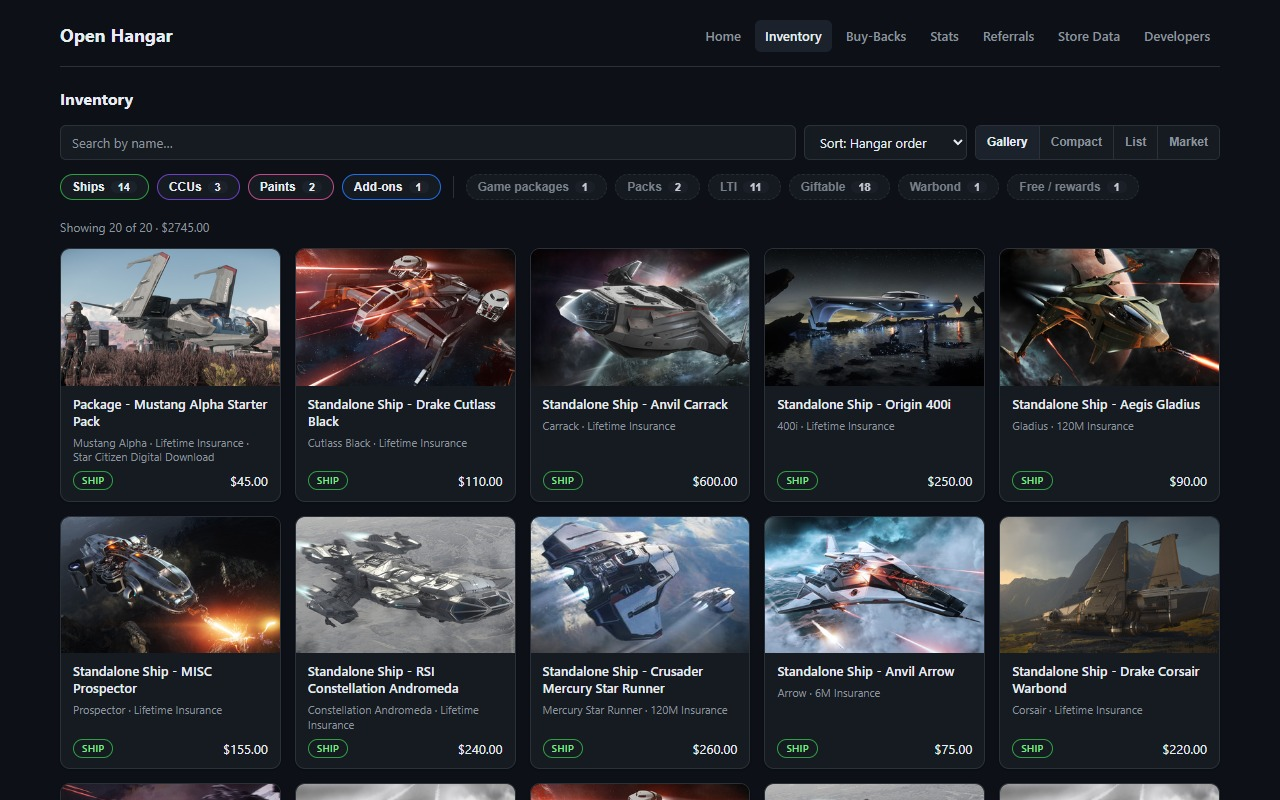
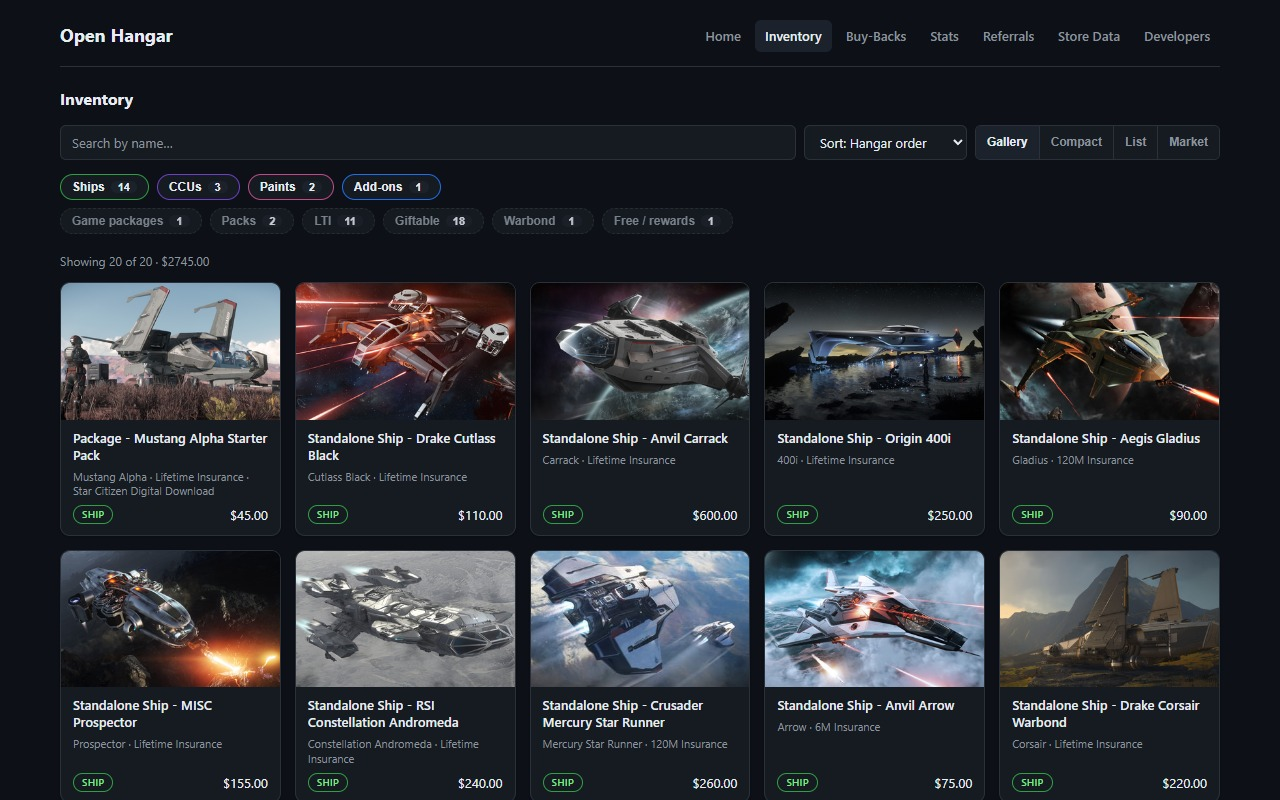
feat(filters): traits on their own row; trait filters for Buy-Backs too
- Kind chips on row 1, trait chips (+ Clear) on row 2 under them, instead of
  one wrapping line.
- Traits read a shared facets view (pledgeFacets / buybackFacets), so the
  same filters work on buy-backs, whose items are one free-text line
  ('Cutlass Black · Lifetime Insurance'). Buy-Backs shows the traits that
  apply (Game packages, Packs, LTI, Warbond); Giftable/Free are inventory-only
  because buy-backs don't carry that data.
- Demo gains a package and a pack buy-back; screenshots regenerated.

diff --git a/src/dashboard.js b/src/dashboard.js
@@ -257,6 +257,7 @@ const state = {
   bbQuery: '',
   bbSort: 'date-desc', // default to newest buy-backs first
   bbShown: new Set(), // buy-back kind filter
+  bbTraits: new Set(), // buy-back trait filter (AND)
   bbLayout: 'gallery', // gallery | compact | list | market (independent of inventory)
   owner: null, // { nickname, displayname } the stored data was scanned from
   shown: new Set(), // inventory kind filter
@@ -726,10 +727,7 @@ function computeShown() {
     ? state.items.filter((p) => state.shown.has(p.kind))
     : state.items.slice();
   // Traits narrow further: a pledge must have every selected trait.
-  if (state.traits.size) {
-    const picked = TRAITS.filter((t) => state.traits.has(t.key));
-    list = list.filter((p) => picked.every((t) => t.test(p)));
-  }
+  list = applyTraits(list, state.traits, pledgeFacets);
   if (q) list = list.filter((p) => haystack(p).includes(q));
   if (state.sort !== 'default') {
     const byName = (a, b) => (a.name || '').localeCompare(b.name || '');
@@ -764,34 +762,60 @@ function computeShown() {
 // so they're a second, AND-combined selection: Ships + LTI + Giftable = LTI ships
 // you can gift. Only traits some pledge actually has are shown.
 const GAME_ITEM_RE = /\b(star citizen|squadron 42)\b.*\b(digital|download|game|package)\b/i;
+
+// Traits read a common "facets" view so the same filters work on hangar pledges
+// (tagged items) and buy-backs (one free-text "Items" line, e.g.
+// "Cutlass Black · Lifetime Insurance"). null = not known for that source.
+function pledgeFacets(p) {
+  return {
+    name: p.name || '',
+    items: p.contents || [],
+    lti: p.insurance === 'LTI',
+    giftable: p.giftable === true,
+    value: Number.isFinite(p.value) ? p.value : null,
+  };
+}
+function buybackFacets(b) {
+  const labels = String(b.contains || '')
+    .split(/\s*[·•|;]\s*|\s*,\s+(?=[A-Z0-9])/)
+    .map((x) => x.trim())
+    .filter(Boolean);
+  return {
+    name: b.name || '',
+    items: labels.map((label) => ({ kind: '', label })),
+    lti: labels.some((l) => /lifetime insurance|\bLTI\b/i.test(l)),
+    giftable: null,
+    value: null,
+  };
+}
+const notInsurance = (c) => !/insurance/i.test(`${c.kind || ''} ${c.label || ''}`);
+
+// Trait filters cut ACROSS kinds (a pack is still a "ship" pledge), so they're a
+// second, AND-combined row under the kind chips: Ships + LTI + Giftable = LTI
+// ships you can gift. A trait only shows if some item in that view has it.
 const TRAITS = [
   {
     key: 'package',
     label: 'Game packages',
     title: 'Pledges that include game access (Star Citizen / Squadron 42)',
-    test: (p) =>
-      /^package\b/i.test(p.name || '') ||
-      (p.contents || []).some(
-        (c) => /^game$/i.test(c.kind || '') || GAME_ITEM_RE.test(c.label || ''),
-      ),
+    test: (f) =>
+      /^package\b/i.test(f.name) ||
+      f.items.some((c) => /^game$/i.test(c.kind || '') || GAME_ITEM_RE.test(c.label || '')),
   },
   {
     // Most packs bundle a ship with paints and gear (e.g. Nine Tails Shogun Pack:
     // 1 vehicle + 1 paint + 8 gear items), so count every item, not just ships.
-    // The insurance line isn't an item.
     key: 'pack',
     label: 'Packs',
     title: 'Pledges that bundle two or more items (ships, paints, gear…)',
-    test: (p) =>
-      (p.contents || []).filter((c) => !/insurance/i.test(`${c.kind || ''} ${c.label || ''}`))
-        .length >= 2,
+    test: (f) => f.items.filter(notInsurance).length >= 2,
   },
-  { key: 'lti', label: 'LTI', title: 'Lifetime insurance', test: (p) => p.insurance === 'LTI' },
+  { key: 'lti', label: 'LTI', title: 'Lifetime insurance', test: (f) => f.lti },
   {
     key: 'giftable',
     label: 'Giftable',
     title: 'RSI shows a Gift action for this pledge',
-    test: (p) => p.giftable === true,
+    test: (f) => f.giftable === true,
   },
   {
     key: 'warbond',
@@ -799,23 +823,38 @@ const TRAITS = [
     // RSI's hangar has no warbond marker, so this relies on the pledge name — some
     // warbond purchases (e.g. packs) aren't named that way and won't show here.
     title: "Pledges whose name says Warbond (RSI doesn't always include it)",
-    test: (p) => /warbond/i.test(p.name || ''),
+    test: (f) => /warbond/i.test(f.name),
   },
   {
     key: 'free',
     label: 'Free / rewards',
     title: '$0 pledges — referral, event and other rewards',
-    test: (p) => p.value === 0,
+    test: (f) => f.value === 0,
   },
 ];
 
-function traitChipHtml(t) {
-  const n = state.items.filter(t.test).length;
-  if (!n) return '';
-  const on = state.traits.has(t.key);
-  return `<button class="chip trait" data-trait="${t.key}" aria-pressed="${on}" title="${OH.escapeHtml(t.title)}">${OH.escapeHtml(
-    t.label,
-  )}<span class="n">${n}</span></button>`;
+// Keep only items having every selected trait.
+function applyTraits(list, selected, facets) {
+  if (!selected.size) return list;
+  const picked = TRAITS.filter((t) => selected.has(t.key));
+  return list.filter((x) => {
+    const f = facets(x);
+    return picked.every((t) => t.test(f));
+  });
+}
+
+// Second chip row: traits present in `list`, plus Clear when anything is picked.
+function traitRowHtml(list, selected, facets, anyFilter) {
+  const all = list.map(facets);
+  const chips = TRAITS.map((t) => {
+    const n = all.filter(t.test).length;
+    if (!n) return '';
+    return `<button class="chip trait" data-trait="${t.key}" aria-pressed="${selected.has(t.key)}" title="${OH.escapeHtml(t.title)}">${OH.escapeHtml(
+      t.label,
+    )}<span class="n">${n}</span></button>`;
+  }).join('');
+  const clear = anyFilter ? '<button class="chip chip-clear" data-clear="1">Clear</button>' : '';
+  return chips || clear ? `<div class="chip-row chip-row-traits">${chips}${clear}</div>` : '';
 }
 
 function chipHtml(kind) {
@@ -1262,12 +1301,9 @@ function renderInventory() {
     resultsEl.innerHTML = '<div class="empty">No hangar data yet. Scan from the Home tab.</div>';
     return;
   }
-  const traitChips = TRAITS.map(traitChipHtml).join('');
-  const anyFilter = state.shown.size || state.traits.size;
   chipsEl.innerHTML =
-    presentKinds().map(chipHtml).join('') +
-    (traitChips ? `<span class="chip-sep" aria-hidden="true"></span>${traitChips}` : '') +
-    (anyFilter ? '<button class="chip chip-clear" data-clear="1">Clear</button>' : '');
+    `<div class="chip-row">${presentKinds().map(chipHtml).join('')}</div>` +
+    traitRowHtml(state.items, state.traits, pledgeFacets, state.shown.size || state.traits.size);
   const shown = computeShown();
   if (!shown.length) {
     resultsEl.innerHTML = '<div class="empty">No pledges match the current filters.</div>';
@@ -1927,6 +1963,7 @@ function computeBuybacks() {
   let list = state.bbShown.size
     ? state.buybacks.filter((b) => state.bbShown.has(b.kind))
     : state.buybacks.slice();
+  list = applyTraits(list, state.bbTraits, buybackFacets);
   if (q) list = list.filter((b) => `${b.name || ''} ${b.contains || ''}`.toLowerCase().includes(q));
   if (state.bbSort !== 'default') {
     const byName = (a, b) => (a.name || '').localeCompare(b.name || '');
@@ -1974,7 +2011,16 @@ function renderBuybacks() {
       .querySelectorAll('button')
       .forEach((b) => b.classList.toggle('active', b.dataset.layout === state.bbLayout));
   }
-  if (bbChipsEl) bbChipsEl.innerHTML = presentBbKinds().map(bbChipHtml).join('');
+  if (bbChipsEl) {
+    bbChipsEl.innerHTML =
+      `<div class="chip-row">${presentBbKinds().map(bbChipHtml).join('')}</div>` +
+      traitRowHtml(
+        state.buybacks,
+        state.bbTraits,
+        buybackFacets,
+        state.bbShown.size || state.bbTraits.size,
+      );
+  }
   const list = computeBuybacks();
   const when = state.buybacksScannedAt ? new Date(state.buybacksScannedAt).toLocaleString() : '';
   if (!list.length) {
@@ -2098,9 +2144,18 @@ if (bbChipsEl) {
   bbChipsEl.addEventListener('click', (e) => {
     const btn = e.target.closest('.chip');
     if (!btn) return;
-    const key = btn.dataset.key;
-    if (state.bbShown.has(key)) state.bbShown.delete(key);
-    else state.bbShown.add(key);
+    if (btn.dataset.clear) {
+      state.bbShown.clear();
+      state.bbTraits.clear();
+    } else if (btn.dataset.trait) {
+      const t = btn.dataset.trait;
+      if (state.bbTraits.has(t)) state.bbTraits.delete(t);
+      else state.bbTraits.add(t);
+    } else {
+      const key = btn.dataset.key;
+      if (state.bbShown.has(key)) state.bbShown.delete(key);
+      else state.bbShown.add(key);
+    }
     renderBuybacks();
   });
 }
@@ -2465,6 +2520,7 @@ async function runScan({ hangar = true, buybacks = true, referrals = true } = {}
       state.buybacks = b.items;
       state.buybacksScannedAt = b.scannedAt;
       state.bbShown = new Set(); // default: no filter selected = show all
+      state.bbTraits = new Set();
       parts.push(`${b.items.length} buy-backs${b.partial ? ` (partial: ${b.partial})` : ''}`);
       if (b.partial) anyErr = true;
     } else {
@@ -2564,6 +2620,7 @@ clearBtn.addEventListener('click', async () => {
   state.shown = new Set();
   state.traits = new Set();
   state.bbShown = new Set();
+  state.bbTraits = new Set();
   state.referral = null;
   setStatus('Local data cleared.');
   renderAccount(); // clear the referral pill too
@@ -2691,6 +2748,7 @@ if (importBtn && importFile) {
     state.shown = new Set(); // default: no filter selected = show all
     state.traits = new Set();
     state.bbShown = new Set(); // default: no filter selected = show all
+    state.bbTraits = new Set();
     renderAccount(); // reflect imported referral in the pill
     setDataMsg(
       `Imported ${sourceItemCount(res.db.sources)} item(s) — open Inventory / Buy-Backs / Stats to view.`,
@@ -2719,6 +2777,7 @@ async function reconcileAccount() {
     state.shown = new Set();
     state.traits = new Set();
     state.bbShown = new Set();
+    state.bbTraits = new Set();
     state.referral = null;
     refreshRecoveryUI();
     return `Cleared ${prev}'s hangar — a different account is signed in. The previous data was saved; use “Restore previous hangar” in the Developers tab to bring it back, or scan to load this account.`;
@@ -2770,6 +2829,7 @@ document.addEventListener('visibilitychange', async () => {
   state.shown = new Set(); // default: no filter selected = show all
   state.traits = new Set();
   state.bbShown = new Set(); // default: no filter selected = show all
+  state.bbTraits = new Set();
   route();
   if (notice) setStatus(notice);
   await refreshRecoveryUI();

diff --git a/scripts/screenshots/demo-shim.js b/scripts/screenshots/demo-shim.js
@@ -200,6 +200,40 @@
       image: null,
     },
   ];
+  buybacks.push(
+    {
+      id: '8805',
+      name: 'Package - Aurora MR Starter Pack',
+      date: '2023-12-02',
+      contains: 'Aurora MR · Star Citizen Digital Download · 6 Month Insurance',
+      href: '/account/buy-back-pledges/reclaim/8805',
+      price: '',
+      isCCU: false,
+      ccu: null,
+      wasUpgraded: false,
+      fromShipId: '',
+      toShipId: '',
+      toSkuId: '',
+      kind: 'ship',
+      image: null,
+    },
+    {
+      id: '8806',
+      name: 'Standalone Ships - Cutlass Black plus Akuma Paint',
+      date: '2023-06-18',
+      contains: 'Cutlass Black · Cutlass - Akuma Paint · Lifetime Insurance',
+      href: '/account/buy-back-pledges/reclaim/8806',
+      price: '',
+      isCCU: false,
+      ccu: null,
+      wasUpgraded: false,
+      fromShipId: '',
+      toShipId: '',
+      toSkuId: '',
+      kind: 'ship',
+      image: null,
+    },
+  );
   const iso = (d) => new Date(now - d * day).toISOString();
   const recruitsList = Array.from({ length: 14 }, (_, i) => ({
     id: `r${i}`,

diff --git a/src/dashboard.html b/src/dashboard.html
@@ -1533,11 +1533,18 @@
       }
 
       /* Filter chips */
+      /* Row 1: kinds (one per pledge). Row 2: traits that refine it (AND). */
       .chips {
         display: flex;
-        flex-wrap: wrap;
+        flex-direction: column;
         gap: 8px;
         margin-bottom: 18px;
+      }
+      .chip-row {
+        display: flex;
+        flex-wrap: wrap;
+        align-items: center;
+        gap: 8px;
       }
       .chip {
         display: inline-flex;
@@ -1578,13 +1585,7 @@
       .chip[aria-pressed='false'] {
         opacity: 0.5;
       }
-      /* Trait chips (second, AND-combined filter row): dashed until picked. */
-      .chip-sep {
-        align-self: stretch;
-        width: 1px;
-        margin: 2px 4px;
-        background: var(--line);
-      }
+      /* Trait chips (second row): dashed until picked. */
       .chip.trait {
         border-style: dashed;
       }

diff --git a/CHANGELOG.md b/CHANGELOG.md
@@ -13,7 +13,9 @@ What's changed in each release of Open Hangar. Dates are when the version was cu
 - **More Inventory filters.** Alongside Ships / CCUs / Paints / Add-ons, a second
   row of traits you can combine: **Game packages**, **Packs** (ship + paints + gear bundles), **LTI**,
   **Giftable**, **Warbond** and **Free / rewards** — e.g. Ships + LTI + Giftable.
-  A **Clear** button resets everything.
+  They sit on their own row under the main filters, and Buy-Backs gets the ones
+  that apply there (Game packages, Packs, LTI, Warbond). A **Clear** button resets
+  everything.
 - **Pledge dates.** Each pledge's purchase date is now read from your hangar, shown in
   the item details, and sortable in Inventory ("Pledged: newest / oldest first").
 - **Sharper, faster ship images.** The blurry hover popup on inventory and buy-back
